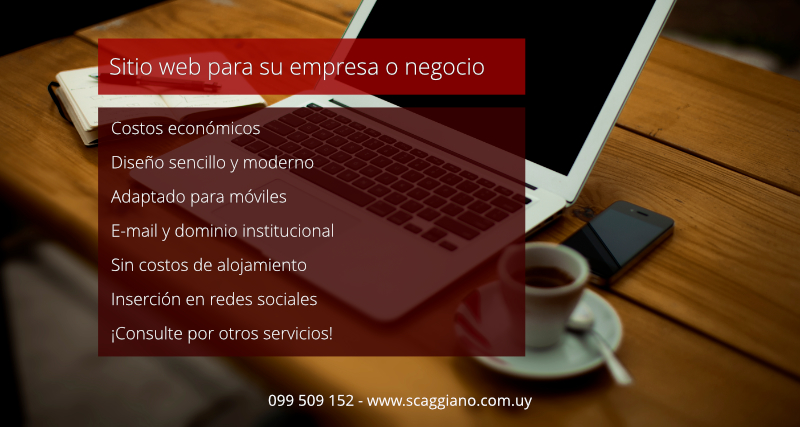
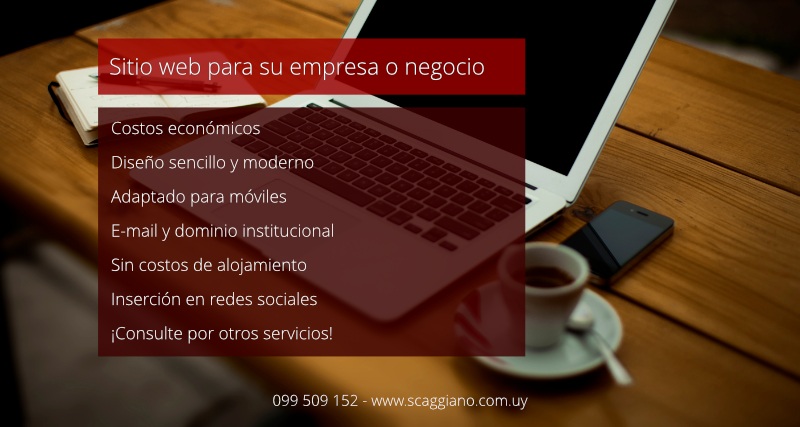
Promotion page added and replace jpg.

Changed region(s): [[0.3125, 0.9133, 0.6562, 0.9742]]

diff --git a/promocion.html b/promocion.html
@@ -1,0 +1,38 @@
+<!doctype html>
+<!--[if lt IE 7]>      <html class="no-js lt-ie9 lt-ie8 lt-ie7" lang=""> <![endif]-->
+<!--[if IE 7]>         <html class="no-js lt-ie9 lt-ie8" lang=""> <![endif]-->
+<!--[if IE 8]>         <html class="no-js lt-ie9" lang=""> <![endif]-->
+<!--[if gt IE 8]><!--> <html class="no-js" lang=""> <!--<![endif]-->
+    <head>
+        <meta charset="utf-8">
+        <title>Sebastián Caggiano | Ingeniero en computación | Desarrollador Web y Full-Stack</title>
+        <meta http-equiv="X-UA-Compatible" content="IE=edge,chrome=1">
+        <title></title>
+        <meta content="Ingeniero en computación, desarrollador Web y Full-Stack." name="description">
+        <meta content=".net, c#, desarrollador, programador, uruguay, página web, sebastian caggiano, html, css, freelancer" name="keywords">
+        <meta content="width=device-width,initial-scale=1.0,minimum-scale=1.0,maximum-scale=1.0,user-scalable=no" name="viewport">
+        <link rel="shortcut icon" type="image/png" href="./img/sc-icon-16.png" size="16x16">
+        <link rel="shortcut icon" type="image/png" href="./img/sc-icon-32.png" size="32x32">
+        <link rel="shortcut icon" type="image/png" href="./img/sc-icon-180.png" size="180x180">
+        <link rel="stylesheet" href="css/main.css">
+        <link rel="stylesheet" href="css/flexgrid.css" media="all">
+        <script src="js/vendor/modernizr-2.8.3-respond-1.4.2.min.js"></script>
+        <script src="js/vendor/respond.js"></script>
+    </head>
+    <body style="background-color:white;">
+        <!--[if lt IE 8]>
+            <p class="browserupgrade">You are using an <strong>outdated</strong> browser. Please <a href="http://browsehappy.com/">upgrade your browser</a> to improve your experience.</p>
+        <![endif]-->
+        <div>
+            <img src="promocion.jpg" width="800" height="427" style="display:block;margin:30px auto 0 auto;" />
+        </div>
+        <script>
+                (function(b,o,i,l,e,r){b.GoogleAnalyticsObject=l;b[l]||(b[l]=
+                function(){(b[l].q=b[l].q||[]).push(arguments)});b[l].l=+new Date;
+                e=o.createElement(i);r=o.getElementsByTagName(i)[0];
+                e.src='//www.google-analytics.com/analytics.js';
+                r.parentNode.insertBefore(e,r)}(window,document,'script','ga'));
+                ga('create','UA-82117637-1','auto');ga('send','pageview');
+        </script>
+    </body>
+</html>
